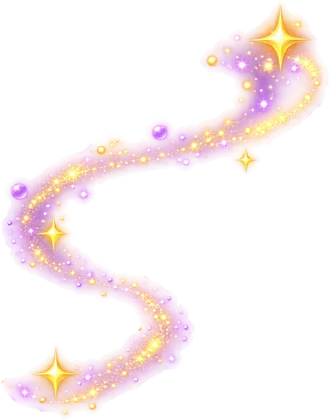
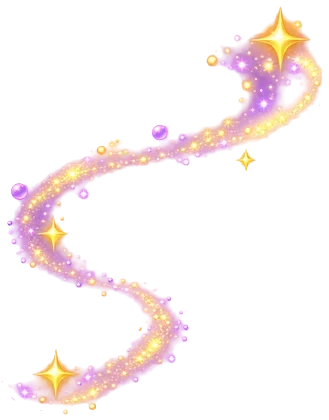
Magic dust: no glow and half the pieces, so it runs smoothly on phones; the glow filter is gone from every effect
Claude-Session: https://claude.ai/code/session_01AtPrjwobxeDtWKkej1gnXv

diff --git a/css/beam.css b/css/beam.css
@@ -500,10 +500,10 @@ svg.mroad{position:absolute; inset:0; width:100%; height:100%; z-index:2; pointe
 .shopitem button.fxtry{border:none; width:100%; height:96px; overflow:hidden; border-radius:12px; background:#241047; font-size:34px; min-height:0}
 .fxbox{position:fixed; inset:0; z-index:40; pointer-events:none; overflow:hidden}
 .fxtry img[src*="classic"]{height:72px; margin-top:11px} .fxtry img{height:94px; object-fit:contain; display:block; margin:0 auto; filter:drop-shadow(0 3px 4px rgba(0,0,0,.4))}
-.fxbox img.fxd{position:absolute; left:0; top:0; height:auto; opacity:0; pointer-events:none; will-change:transform,opacity; filter:drop-shadow(0 0 6px rgba(255,214,120,.8))}
+.fxbox img.fxd{position:absolute; left:0; top:0; height:auto; opacity:0; pointer-events:none; will-change:transform,opacity}   /* no glow filter: hundreds of moving pieces with a shadow each made phones stutter */
 .fxbox i.fxdot{position:absolute; left:0; top:0; border-radius:50%; opacity:0; pointer-events:none; background:radial-gradient(circle,#FFFBE6 0%,#FFD95A 40%,rgba(255,170,40,0) 72%); will-change:transform,opacity}
 .fxbox i.fxflash{position:absolute; inset:0; opacity:0; pointer-events:none}
-.fxbox i.fxdglow{position:absolute; left:0; top:0; width:150px; height:150px; border-radius:50%; opacity:0; pointer-events:none; background:radial-gradient(circle, rgba(255,240,190,.95) 0%, rgba(255,200,90,.55) 22%, rgba(190,120,255,.3) 48%, rgba(190,120,255,0) 70%); mix-blend-mode:screen}
+.fxbox i.fxdglow{position:absolute; left:0; top:0; width:150px; height:150px; border-radius:50%; opacity:0; pointer-events:none; background:radial-gradient(circle, rgba(255,240,190,.95) 0%, rgba(255,200,90,.55) 22%, rgba(190,120,255,.3) 48%, rgba(190,120,255,0) 70%); }
 .cheerbox{position:fixed; inset:0; z-index:30; pointer-events:none; overflow:hidden}
 .cheerbox img{position:absolute; opacity:0; will-change:transform,opacity}
 .cheerbox img.cheerw{height:auto; filter:drop-shadow(0 8px 14px rgba(40,0,90,.55)) drop-shadow(0 0 18px rgba(255,210,90,.5))}

diff --git a/js/game.js b/js/game.js
@@ -1721,7 +1721,7 @@ function buyLook(cat, it) {
 }
 /* the win effect: a short shower of the painted pieces (media/fx/p) over the screen; plain images, so it costs nothing when idle */
 const FX_N = { bubbles: 10, stars: 9, dust: 6, hearts: 6, rainbow: 7, snow: 8, lightning: 7, fireworks: 7, portal: 10, confetti: 10 };
-const fxSrc = (kind, i) => `media/fx/p/${kind}-${i}.webp?v=${kind === 'confetti' || kind === 'hearts' ? 2 : 1}`;
+const fxSrc = (kind, i) => `media/fx/p/${kind}-${i}.webp?v=${kind === 'confetti' || kind === 'hearts' || kind === 'dust' ? 2 : 1}`;
 function fxPreload(kind) { if (!FX_N[kind]) return; for (const k of [kind, 'dust']) for (let i = 0; i < FX_N[k]; i++) new Image().src = fxSrc(k, i); }
 /* ---- the win effects: each one is a small scene made of the painted pieces, moved by the Web Animations API ---- */
 function fxKit(box, kind) {
@@ -1773,8 +1773,8 @@ const FX_SCENES = {
     const { W, H, rnd, sprite, comet, speck } = k;
     const paths = [t => [W * (-.1 + 1.2 * t), H * (.62 - .3 * t) + Math.sin(t * Math.PI * 3) * H * .1],
                    t => [W * (1.1 - 1.2 * t), H * (.2 + .32 * t) + Math.sin(t * Math.PI * 2.4 + 1) * H * .09]];
-    paths.forEach((p, n) => comet(sprite(1, 76), p, 1700, n * 380, 16, 540, (x, y) => { for (let j = 0; j < 22; j++) { const a = Math.random() * 6.3, d = rnd(30, 110); speck(x + Math.cos(a) * d, y + Math.sin(a) * d, Math.random() < .3); } }));
-    for (let j = 0; j < 26; j++) setTimeout(() => speck(rnd(10, W - 10), rnd(-10, H * .4)), 600 + j * 60);
+    paths.forEach((p, n) => comet(sprite(1, 76), p, 1700, n * 380, 40, 540, (x, y) => { for (let j = 0; j < 14; j++) { const a = Math.random() * 6.3, d = rnd(30, 110); speck(x + Math.cos(a) * d, y + Math.sin(a) * d, Math.random() < .3); } }));
+    for (let j = 0; j < 16; j++) setTimeout(() => speck(rnd(10, W - 10), rnd(-10, H * .4)), 600 + j * 90);
   },
   confetti(k) {      // two cannons in the bottom corners blast ribbons up; they flutter down
     const { W, H, rnd, sprite, path, fade, flash } = k;

diff --git a/sw.js b/sw.js
@@ -1,7 +1,7 @@
 /* BEAM service worker: the game keeps working with no connection.
    The page itself is fetched fresh whenever the network answers, so updates arrive on the next visit;
    everything else (clips, icons) is served from the cache first. Bump VERSION when those files change. */
-const VERSION = 'beam-v98';
+const VERSION = 'beam-v100';
 const SHELL = ['./', 'css/beam.css', 'js/levels.js', 'js/game.js', 'media/font/fredoka-a.woff2', 'media/font/fredoka-b.woff2', 'media/inline/bug.webp', 'media/inline/logo.webp', 'manifest.webmanifest', 'icon.webp', 'icons/icon-192.png', 'icons/icon-512.png', 'icons/favicon-32.png', 'icons/favicon-96.png', 'icons/apple-180.png', 'media/cheer2.mp4', 'media/fly.mp4', 'media/hero.webp', 'media/garden/bg.webp', 'media/map/bg.webp', 'media/ui/shop.webp', 'media/ui/home.webp', 'media/ui/invite.webp', 'media/ui/trophy.webp', 'media/ui/decor.webp', 'media/ui/duel.webp', 'media/ui/medal.webp', 'media/ui/calendar.webp', 'media/ui/gift.webp', 'media/ui/help.webp', 'media/ui/gear.webp', 'media/ui/star.webp', 'media/splash/bg.webp', 'media/splash/logo.webp', 'media/splash/fly.webp', 'media/ui/coin1.webp', 'media/ui/coin2.webp', 'media/ui/coin3.webp', 'media/ui/t-reset.webp', 'media/ui/t-mirror.webp', 'media/ui/t-hint.webp', 'media/ui/t-hammer.webp', 'media/board/frame.webp', 'media/board/bg.webp', 'media/board/t-blue.webp', 'media/board/t-green.webp', 'media/board/t-orange.webp', 'media/board/t-purple.webp', 'media/board/wall.webp', 'media/board/bomb.webp', 'media/board/mir-a.webp', 'media/board/mir-b.webp', 'media/board/star.webp', 'media/board/star-off.webp', 'media/board/fly.webp'];
 
 self.addEventListener('install', e => {

diff --git a/index.html b/index.html
@@ -12,7 +12,7 @@
 <link rel="icon" type="image/png" sizes="32x32" href="icons/favicon-32.png?v=3">
 <link rel="icon" type="image/png" sizes="96x96" href="icons/favicon-96.png?v=3">
 <link rel="apple-touch-icon" href="icons/apple-180.png?v=3">
-<link rel="stylesheet" href="css/beam.css?v=0217b603fa">
+<link rel="stylesheet" href="css/beam.css?v=ee873de691">
 </head>
 <body class="splashing">
 <div id="splash" role="status" aria-live="polite">
@@ -347,6 +347,6 @@
 <div class="toast" id="toast" role="status"></div>
 
 <script src="js/levels.js?v=f87c89fe32"></script>
-<script src="js/game.js?v=96dd590c62"></script>
+<script src="js/game.js?v=aedd19aff1"></script>
 </body>
 </html>
